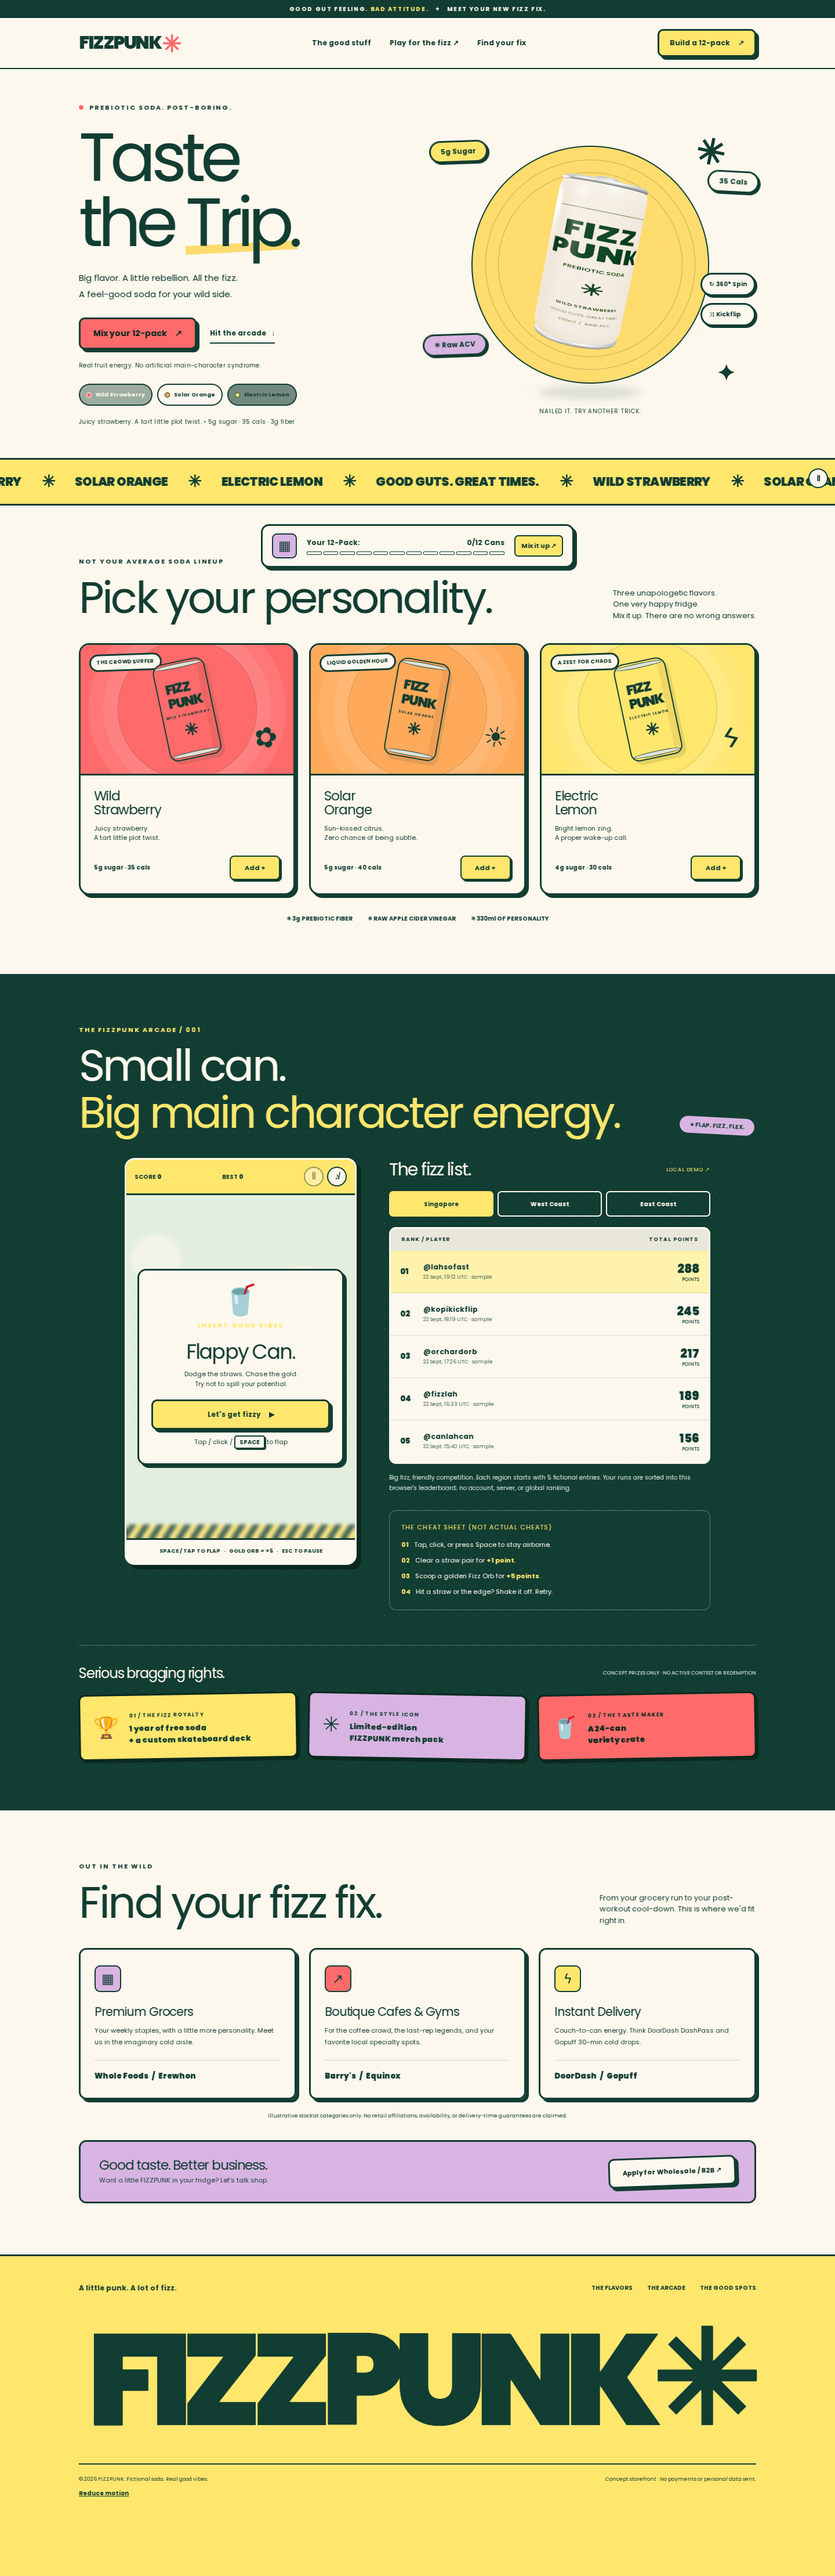
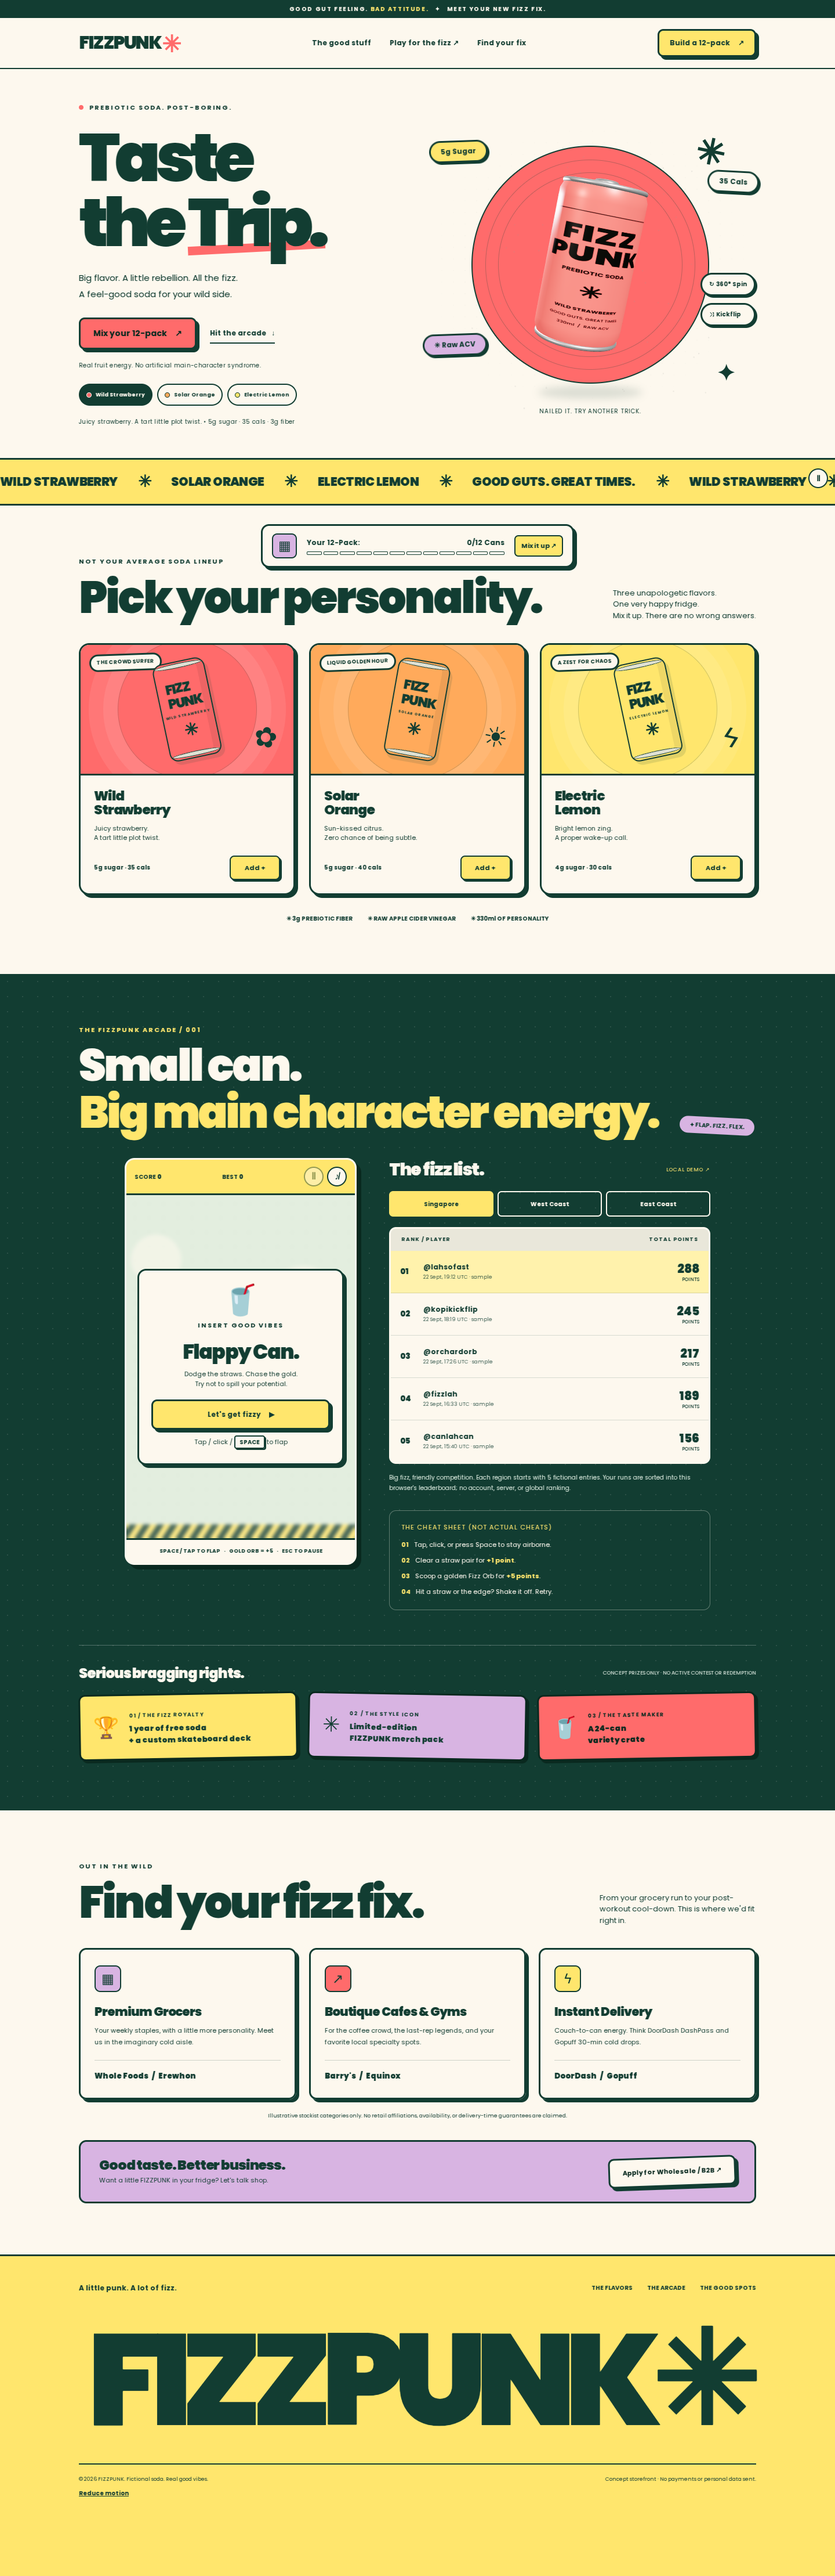
Persist visually polished and browser-verified release

diff --git a/index.html b/index.html
@@ -17,6 +17,9 @@
 @media(prefers-reduced-motion:reduce){html{scroll-behavior:auto}*,*:before,*:after{animation-duration:.001ms!important;animation-iteration-count:1!important;transition-duration:.001ms!important}.marquee-track{animation:none}}
 /* accessible coral ink: a deeper pine shade for small text on coral */
 .button:not(.lemon):not(.cream),.prize-card:nth-child(3){color:#09291F}
+/* final visual review: outrank asynchronously injected CDN preflight */
+body h1,body h2,body h3{font-weight:900}.logo{white-space:nowrap;flex-shrink:0}@media(max-width:480px){.nav>.button{display:none}.menu-toggle{margin-left:auto}}
+.arcade .overlay-card .eyebrow{color:var(--pine)}
 </style>
 </head>
 <body>
@@ -71,8 +74,8 @@ $('#wholesaleForm').onsubmit=e=>{e.preventDefault();if(!e.target.reportValidity(
 let renderer,scene,camera,can,bodyMat,labelTexture,labelCanvas,labelCtx,particles;let selectedFlavor=0;let targetColor,fromColor,colorStart=0;let dragging=false,dragX=0,dragY=0,dragRotation=0,dragTilt=0;let trick=null,webgl=false,canVisible=true;const canCanvas=$('#canCanvas');
 function drawLabel(){if(!labelCtx)return;const c=labelCtx;c.fillStyle='#ffffff';c.fillRect(0,0,1024,1024);c.fillStyle='#123D32';c.textAlign='center';c.font='900 136px Poppins,Arial';c.fillText('FIZZ',512,355);c.fillText('PUNK',512,480);c.font='700 29px Poppins,Arial';c.fillText('PREBIOTIC SODA',512,555);c.font='900 100px Arial';c.fillText('✳',512,700);c.font='700 25px Poppins,Arial';c.fillText(flavors[selectedFlavor].name.toUpperCase(),512,790);c.font='500 21px Poppins,Arial';c.fillText('GOOD GUTS. GREAT TIMES.',512,841);c.fillText('330ml  /  RAW ACV',512,890);c.lineWidth=4;c.beginPath();c.moveTo(280,175);c.lineTo(744,175);c.strokeStyle='#123D32';c.stroke();if(labelTexture)labelTexture.needsUpdate=true}
 function fallback(reason){webgl=false;trick=null;$('#spinButton').disabled=false;$('#flipButton').disabled=false;canCanvas.style.display='none';$('#fallbackCan').style.display='block';$('#canStatus').textContent=reason||'Illustrated preview · try a trick';}
-try{if(!window.THREE)throw Error('Three.js unavailable');renderer=new THREE.WebGLRenderer({canvas:canCanvas,alpha:true,antialias:true});renderer.setPixelRatio(Math.min(devicePixelRatio,2));renderer.outputEncoding=THREE.sRGBEncoding;renderer.toneMapping=THREE.ACESFilmicToneMapping;renderer.toneMappingExposure=1.18;scene=new THREE.Scene();camera=new THREE.PerspectiveCamera(36,1,.1,100);camera.position.set(0,.35,9.1);camera.lookAt(0,0,0);scene.add(new THREE.AmbientLight(0xffffff,.9));const key=new THREE.DirectionalLight(0xffffff,1.55);key.position.set(4,5,6);scene.add(key);const fill=new THREE.DirectionalLight(0xffe5d6,.7);fill.position.set(-4,2,3);scene.add(fill);const rim=new THREE.PointLight(0xe9dcff,1.5,25);rim.position.set(-3,2,-3);scene.add(rim);can=new THREE.Group();scene.add(can);labelCanvas=document.createElement('canvas');labelCanvas.width=1024;labelCanvas.height=1024;labelCtx=labelCanvas.getContext('2d');drawLabel();labelTexture=new THREE.CanvasTexture(labelCanvas);labelTexture.encoding=THREE.sRGBEncoding;labelTexture.anisotropy=Math.min(renderer.capabilities.getMaxAnisotropy(),8);bodyMat=new THREE.MeshStandardMaterial({color:flavors[0].color,map:labelTexture,roughness:.36,metalness:.18});const geom=new THREE.CylinderGeometry(.86,.86,2.95,96,20);const pos=geom.attributes.position;for(let i=0;i<pos.count;i++){const y=Math.abs(pos.getY(i));const bevel=1-.075*Math.pow(Math.max(0,(y-1.29)/.185),2);pos.setX(i,pos.getX(i)*bevel);pos.setZ(i,pos.getZ(i)*bevel)}geom.computeVertexNormals();const metal=new THREE.MeshStandardMaterial({color:0xd7e0df,metalness:.82,roughness:.22});const darkMetal=new THREE.MeshStandardMaterial({color:0x8a9893,metalness:.65,roughness:.3});const body=new THREE.Mesh(geom,[bodyMat,metal,metal]);body.rotation.y=Math.PI;can.add(body);[-1.49,1.49].forEach(y=>{const rimMesh=new THREE.Mesh(new THREE.TorusGeometry(.787,.047,12,80),metal);rimMesh.rotation.x=Math.PI/2;rimMesh.position.y=y;can.add(rimMesh);const lid=new THREE.Mesh(new THREE.CylinderGeometry(.777,.777,.036,80),metal);lid.position.y=y;can.add(lid)});const inset=new THREE.Mesh(new THREE.CylinderGeometry(.677,.677,.015,64),darkMetal);inset.position.y=1.515;can.add(inset);const innerLid=new THREE.Mesh(new THREE.CylinderGeometry(.65,.65,.018,64),metal);innerLid.position.y=1.528;can.add(innerLid);const tab=new THREE.Mesh(new THREE.TorusGeometry(.18,.065,12,32),metal);tab.rotation.x=Math.PI/2;tab.scale.y=1.5;tab.position.set(0,1.554,.04);can.add(tab);const opening=new THREE.Mesh(new THREE.CircleGeometry(.16,32),new THREE.MeshStandardMaterial({color:0x31483d,roughness:.7}));opening.rotation.x=-Math.PI/2;opening.scale.y=1.3;opening.position.set(0,1.549,-.35);can.add(opening);const pg=new THREE.BufferGeometry();const arr=new Float32Array(70*3);for(let i=0;i<arr.length;i+=3){arr[i]=(Math.random()-.5)*5;arr[i+1]=(Math.random()-.5)*6;arr[i+2]=(Math.random()-.5)*2-1}pg.setAttribute('position',new THREE.BufferAttribute(arr,3));const pc=document.createElement('canvas');pc.width=32;pc.height=32;const cx=pc.getContext('2d');cx.strokeStyle='white';cx.lineWidth=3;cx.beginPath();cx.arc(16,16,11,0,Math.PI*2);cx.stroke();particles=new THREE.Points(pg,new THREE.PointsMaterial({color:0xfdf8ee,size:.085,map:new THREE.CanvasTexture(pc),transparent:true,opacity:.8,depthWrite:false}));scene.add(particles);webgl=true;targetColor=new THREE.Color(flavors[0].color);fromColor=targetColor.clone();const resizeCan=()=>{const r=canCanvas.parentElement.getBoundingClientRect();renderer.setSize(r.width,r.height,false);camera.aspect=r.width/r.height;camera.updateProjectionMatrix()};new ResizeObserver(resizeCan).observe(canCanvas.parentElement);resizeCan();$('#canStatus').textContent='Drag to vibe · tap a trick to show off';document.fonts.ready.then(drawLabel);new IntersectionObserver(entries=>{canVisible=entries[0].isIntersecting}).observe(canCanvas);canCanvas.addEventListener('webglcontextlost',e=>{e.preventDefault();fallback('3D paused · illustrated preview available')})}catch(e){fallback('3D unavailable · illustrated preview')}
-function chooseFlavor(index){selectedFlavor=index;const f=flavors[index];document.documentElement.style.setProperty('--accent',f.color);$$('[data-flavor]').forEach(b=>b.setAttribute('aria-pressed',String(Number(b.dataset.flavor)===index)));$('#flavorNotes').textContent=f.notes+' • '+f.sugar+'g sugar · '+f.cals+' cals · '+f.fiber+'g fiber';$('#sugarBadge').textContent=f.sugar+'g Sugar';$('#calsBadge').textContent=f.cals+' Cals';$('#fallbackFlavor').textContent=f.name.toUpperCase();canCanvas.setAttribute('aria-label','3D '+f.name+' soda can. Drag sideways or use the trick buttons.');if(webgl){fromColor.copy(bodyMat.color);targetColor.set(f.color);colorStart=performance.now();drawLabel()}}
+try{if(!window.THREE)throw Error('Three.js unavailable');renderer=new THREE.WebGLRenderer({canvas:canCanvas,alpha:true,antialias:true});renderer.setPixelRatio(Math.min(devicePixelRatio,2));renderer.outputEncoding=THREE.sRGBEncoding;renderer.toneMapping=THREE.ACESFilmicToneMapping;renderer.toneMappingExposure=1.05;scene=new THREE.Scene();camera=new THREE.PerspectiveCamera(36,1,.1,100);camera.position.set(0,.35,9.1);camera.lookAt(0,0,0);scene.add(new THREE.AmbientLight(0xffffff,.65));const key=new THREE.DirectionalLight(0xffffff,.95);key.position.set(4,5,6);scene.add(key);const fill=new THREE.DirectionalLight(0xffe5d6,.35);fill.position.set(-4,2,3);scene.add(fill);const rim=new THREE.PointLight(0xe9dcff,1.5,25);rim.position.set(-3,2,-3);scene.add(rim);can=new THREE.Group();scene.add(can);labelCanvas=document.createElement('canvas');labelCanvas.width=1024;labelCanvas.height=1024;labelCtx=labelCanvas.getContext('2d');drawLabel();labelTexture=new THREE.CanvasTexture(labelCanvas);labelTexture.encoding=THREE.sRGBEncoding;labelTexture.anisotropy=Math.min(renderer.capabilities.getMaxAnisotropy(),8);bodyMat=new THREE.MeshStandardMaterial({color:flavors[0].color,map:labelTexture,roughness:.36,metalness:.18});const geom=new THREE.CylinderGeometry(.86,.86,2.95,96,20);const pos=geom.attributes.position;for(let i=0;i<pos.count;i++){const y=Math.abs(pos.getY(i));const bevel=1-.075*Math.pow(Math.max(0,(y-1.29)/.185),2);pos.setX(i,pos.getX(i)*bevel);pos.setZ(i,pos.getZ(i)*bevel)}geom.computeVertexNormals();const metal=new THREE.MeshStandardMaterial({color:0xd7e0df,metalness:.82,roughness:.22});const darkMetal=new THREE.MeshStandardMaterial({color:0x8a9893,metalness:.65,roughness:.3});const body=new THREE.Mesh(geom,[bodyMat,metal,metal]);body.rotation.y=Math.PI;can.add(body);[-1.49,1.49].forEach(y=>{const rimMesh=new THREE.Mesh(new THREE.TorusGeometry(.787,.047,12,80),metal);rimMesh.rotation.x=Math.PI/2;rimMesh.position.y=y;can.add(rimMesh);const lid=new THREE.Mesh(new THREE.CylinderGeometry(.777,.777,.036,80),metal);lid.position.y=y;can.add(lid)});const inset=new THREE.Mesh(new THREE.CylinderGeometry(.677,.677,.015,64),darkMetal);inset.position.y=1.515;can.add(inset);const innerLid=new THREE.Mesh(new THREE.CylinderGeometry(.65,.65,.018,64),metal);innerLid.position.y=1.528;can.add(innerLid);const tab=new THREE.Mesh(new THREE.TorusGeometry(.18,.065,12,32),metal);tab.rotation.x=Math.PI/2;tab.scale.y=1.5;tab.position.set(0,1.554,.04);can.add(tab);const opening=new THREE.Mesh(new THREE.CircleGeometry(.16,32),new THREE.MeshStandardMaterial({color:0x31483d,roughness:.7}));opening.rotation.x=-Math.PI/2;opening.scale.y=1.3;opening.position.set(0,1.549,-.35);can.add(opening);const pg=new THREE.BufferGeometry();const arr=new Float32Array(70*3);for(let i=0;i<arr.length;i+=3){arr[i]=(Math.random()-.5)*5;arr[i+1]=(Math.random()-.5)*6;arr[i+2]=(Math.random()-.5)*2-1}pg.setAttribute('position',new THREE.BufferAttribute(arr,3));const pc=document.createElement('canvas');pc.width=32;pc.height=32;const cx=pc.getContext('2d');cx.strokeStyle='white';cx.lineWidth=3;cx.beginPath();cx.arc(16,16,11,0,Math.PI*2);cx.stroke();particles=new THREE.Points(pg,new THREE.PointsMaterial({color:0xfdf8ee,size:.085,map:new THREE.CanvasTexture(pc),transparent:true,opacity:.8,depthWrite:false}));scene.add(particles);webgl=true;targetColor=new THREE.Color(flavors[0].color).convertSRGBToLinear();bodyMat.color.copy(targetColor);fromColor=targetColor.clone();const resizeCan=()=>{const r=canCanvas.parentElement.getBoundingClientRect();renderer.setSize(r.width,r.height,false);camera.aspect=r.width/r.height;camera.updateProjectionMatrix()};new ResizeObserver(resizeCan).observe(canCanvas.parentElement);resizeCan();$('#canStatus').textContent='Drag to vibe · tap a trick to show off';document.fonts.ready.then(drawLabel);new IntersectionObserver(entries=>{canVisible=entries[0].isIntersecting}).observe(canCanvas);canCanvas.addEventListener('webglcontextlost',e=>{e.preventDefault();fallback('3D paused · illustrated preview available')})}catch(e){fallback('3D unavailable · illustrated preview')}
+function chooseFlavor(index){selectedFlavor=index;const f=flavors[index];document.documentElement.style.setProperty('--accent',f.color);$$('[data-flavor]').forEach(b=>b.setAttribute('aria-pressed',String(Number(b.dataset.flavor)===index)));$('#flavorNotes').textContent=f.notes+' • '+f.sugar+'g sugar · '+f.cals+' cals · '+f.fiber+'g fiber';$('#sugarBadge').textContent=f.sugar+'g Sugar';$('#calsBadge').textContent=f.cals+' Cals';$('#fallbackFlavor').textContent=f.name.toUpperCase();canCanvas.setAttribute('aria-label','3D '+f.name+' soda can. Drag sideways or use the trick buttons.');if(webgl){fromColor.copy(bodyMat.color);targetColor.set(f.color).convertSRGBToLinear();colorStart=performance.now();drawLabel()}}
 $$('[data-flavor]').forEach(b=>b.onclick=()=>chooseFlavor(Number(b.dataset.flavor)));function doTrick(type){if(trick)return;if(!webgl){$('#fallbackCan').animate(type==='spin'?[{transform:'translate(-50%,-50%) rotate(-13deg) rotateY(0)'},{transform:'translate(-50%,-50%) rotate(-13deg) rotateY(360deg)'}]:[{transform:'translate(-50%,-50%) rotate(-13deg)'},{transform:'translate(-50%,-50%) rotate(707deg)'}],{duration:motionOff?1:900,easing:'ease-in-out'});return}trick={type,start:performance.now(),duration:motionOff?1:1150};$('#spinButton').disabled=true;$('#flipButton').disabled=true;$('#canStatus').textContent=type==='spin'?'One smooth 360°…':'Kickflip in progress…'}$('#spinButton').onclick=()=>doTrick('spin');$('#flipButton').onclick=()=>doTrick('flip');
 canCanvas.addEventListener('pointerdown',e=>{if(e.button!==0)return;dragging=true;dragX=e.clientX;dragY=e.clientY;canCanvas.setPointerCapture(e.pointerId)});canCanvas.addEventListener('pointermove',e=>{if(!dragging)return;dragRotation+=(e.clientX-dragX)*.012;dragTilt=Math.max(-.3,Math.min(.3,dragTilt+(e.clientY-dragY)*.003));dragX=e.clientX;dragY=e.clientY});['pointerup','pointercancel','lostpointercapture'].forEach(t=>canCanvas.addEventListener(t,()=>dragging=false));
 let last3D=performance.now();function animateCan(now){requestAnimationFrame(animateCan);const dt=Math.min((now-last3D)/1000,.05);last3D=now;if(!webgl||!canVisible||document.hidden)return;bodyMat.color.copy(fromColor).lerp(targetColor,motionOff?1:Math.min((now-colorStart)/500,1));let ry=dragRotation+(motionOff?0:Math.sin(now*.00045)*.18),rx=.10+dragTilt,rz=-.20;if(trick){const t=Math.min((now-trick.start)/trick.duration,1),e=t<.5?4*t*t*t:1-Math.pow(-2*t+2,3)/2;ry+=e*Math.PI*2;if(trick.type==='flip'){rx+=e*Math.PI*2;rz+=e*Math.PI*2}if(t===1){trick=null;$('#spinButton').disabled=false;$('#flipButton').disabled=false;$('#canStatus').textContent='Nailed it. Try another trick.'}}can.rotation.set(rx,ry,rz);can.position.y=motionOff?0:Math.sin(now*.0016)*.10;if(!motionOff){const p=particles.geometry.attributes.position;for(let i=0;i<p.count;i++){let y=p.getY(i)+dt*(.25+(i%5)*.07);p.setY(i,y>3?-3:y)}p.needsUpdate=true}renderer.render(scene,camera)}requestAnimationFrame(animateCan);
